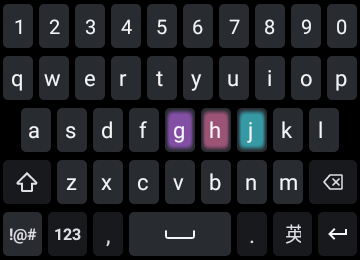
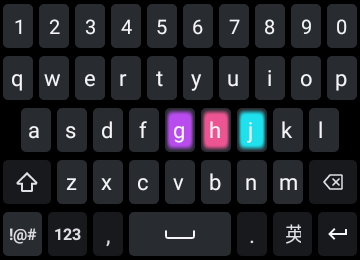
Save verified key-surface animation preview and build evidence

Changed region(s): [[0.4583, 0.4, 0.7333, 0.5846]]

diff --git a/validation/v09/REVIEW.md b/validation/v09/REVIEW.md
@@ -1,9 +1,13 @@
 # V09 按键动画、滑动选键与独立数字行
 
-构建提交：`1a0de8014ab7dba27b489a82a3399ea5d6059f1a`
-构建记录：https://github.com/xisungod/fcitx5-android/actions/runs/37164286337
+构建提交：`8c9baa554a144da88a8cd89733ec1a1b18b6543c`
+构建记录：https://github.com/xisungod/fcitx5-android/actions/runs/37166511898
 
 ## 本次改动
+
+- 键面颜色改在深灰键帽背景之后、字符之前绘制，不再被半透明键帽压暗；硬件缓存的各键面随动画一起刷新。
+- 外围光晕随着扩散降低亮度，减轻连续输入时整片彩色背景的积累，让每个键的停留、收缩过程更清楚。
+- 字符预览的背景只包围上方字符，下半部透明，避免按住时用黑色长条遮住当前键帽。
 
 - 键面默认保持颜色 260 ms，随后用 480 ms 从圆角色块收缩到小圆点，在收缩后半段淡出；停留与收缩淡出时间分别可设置。
 - 外围波纹半径在已有大小设置基础上缩小 15%，键面停留/收缩时间不变。
@@ -27,9 +31,11 @@
 
 - `09-continuous-typing.gif`：连续输入 `lianggehuangkimigcuiliao`，每 132 ms 一个字母，每次按住 99 ms，动画帧间隔 33 ms；使用实际键盘、候选栏、按键预览控件和波纹代码。最后第一候选为“两个黄鹂鸣翠柳”。该动图的独立来源与校验见 `continuous-preview.json`。
 
+- `10-samsung-key-surfaces.gif`：这次调整后的连续输入动图，同样每 132 ms 一键；键面更亮、外围叠加更淡，字符预览下半部透明。来源与参数见 `key-surfaces-preview.json`。`09` 保留为上一版对照。
+
 ## 验证
 
-- 44 项 Android 测试通过，失败、错误、跳过均为 0；包含滑动最后键提交、跨行到数字、双拇指独立目标、空格光标、符号提交、英文大小写、像素收缩、设置时长及既有候选和呼吸光测试。
+- 46 项 Android 测试通过，失败、错误、跳过均为 0；新增键面和字符绘制顺序、硬件子视图刷新检查，连续输入图同时检查黑底留白及预览不遮挡当前键；另包含滑动最后键提交、跨行到数字、双拇指独立目标、空格光标、符号提交、英文大小写、像素收缩、设置时长及既有候选和呼吸光测试。
 - 真实 librime 候选、纠错、长句、Lua 和英文直接提交检查通过。长词补充纠错探查有限候选并缓存十二组固定词库结果，避免逐键扫描词库；用户例句以及邻键/漏 n/末尾错音变体均首选并完整上屏，无剩余拼音。追加“了”“的作者”不会被吞掉；其他任意长句和严重错拼仍不保证恢复。`shuagkashuangdai` 仍首选“双卡双待”。
 - 主程序及 Rime 均成功构建为 arm64。文件哈希、ZIP 完整性、包名及插件权限配套、相同签名、词库/语法模型/Lua/预编译表及源码归档核验通过。
 - 详见 `validation.json`、`native-candidates.txt` 和 `package-verification.txt`。

diff --git a/XUANCAI-V09.md b/XUANCAI-V09.md
@@ -1,6 +1,6 @@
 # 炫彩·曜黑 V09 三星键帽版（arm64）
 
-本次调整按键动画、滑动选键、独立数字行和纯符号首页。沿用已确认的三星式独立键帽、键间留白和符号空格。主程序和配套 Rime 已成功构建，44 项 Android 测试与真实 Rime 检查全部通过；签名和文件完整性核验通过。尚未发布，预览见 `validation/v09/`。
+本次调整按键动画、滑动选键、独立数字行和纯符号首页。沿用已确认的三星式独立键帽、键间留白和符号空格。主程序和配套 Rime 已成功构建，46 项 Android 测试与真实 Rime 检查全部通过；签名和文件完整性核验通过。尚未发布，预览见 `validation/v09/`。
 
 ## 安装
 
@@ -36,6 +36,8 @@ V08 的 Rime 插件不能直接供 V09 使用，因此两个 APK 都需要安装
 - 候选词 24 sp，可横向拖动查看更多候选，保留展开入口。
 
 ## 灯效
+
+- 按照连续输入预览反馈，键帽颜色改在按键背景上方、文字下方绘制，突出单个键的着色与收缩；扩散光晕越大越淡，减少整片彩色背景叠加。字符预览下半部透明，当前按键变色在按住时也能看见。
 
 - 在原设定基础上将外围波纹半径缩小 15%，已有保存的大小设置同样生效；键面停留与收缩时间不变。默认扩散半径随键盘高度调整，底行按键的波纹也可延伸至候选栏。参考用户给出的 Keys Cafe 视频，字母键先以一种随机霓虹色亮起，再扩散为同色柔雾；外围光晕默认延后 100 ms 开始，900 ms 平滑扩散、450 ms 消退，不延迟文字输入。键面颜色独立停留 260 ms，再用 480 ms 从圆角色块收缩为柔和圆点并淡出；停留和收缩淡出时间分别可调。功能键仍只用柔和光晕。随后同一波纹连续扩散到候选词栏，绘制在候选字后面。
 - 两侧呼吸光向中间扩散，默认每周期从 10 种霓虹色中随机换色，在暗处更换，避免亮时跳色；可关闭随机并指定双色。
